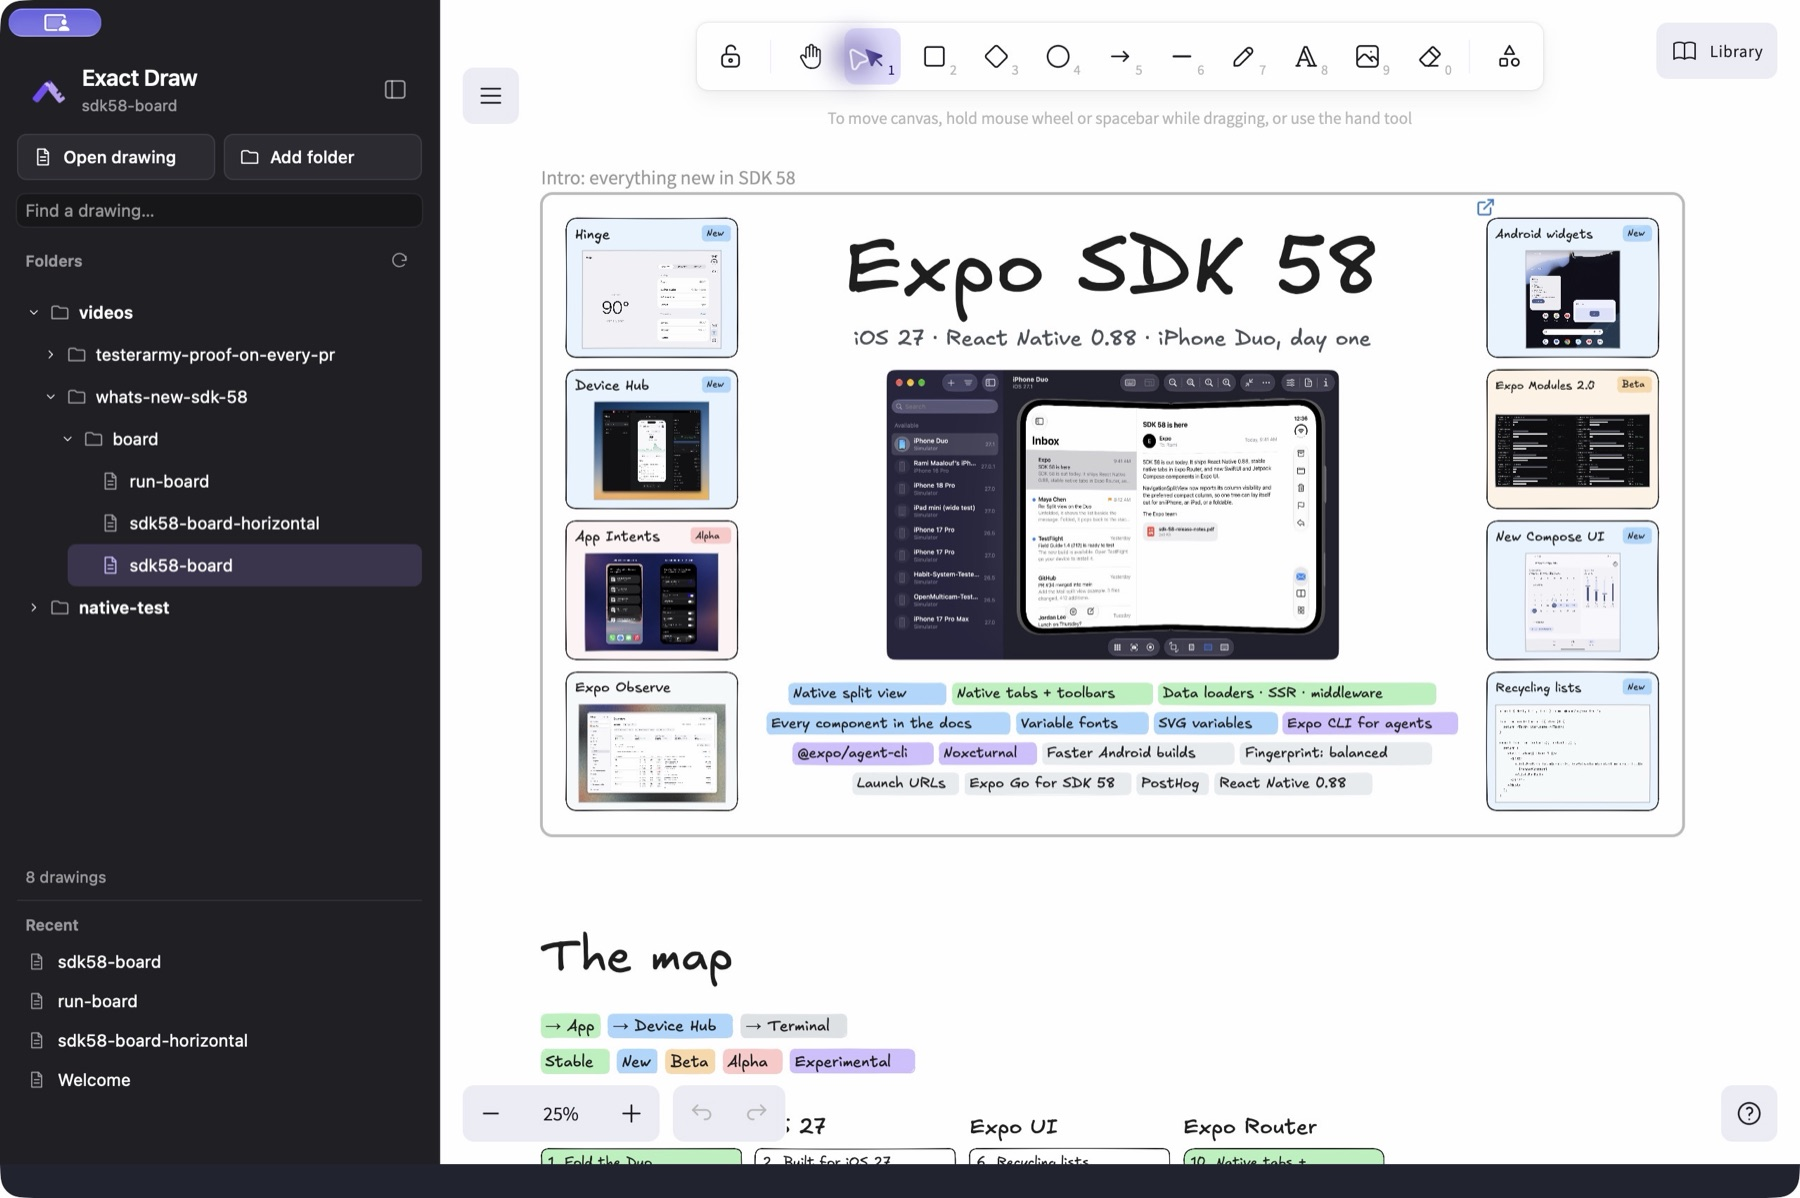
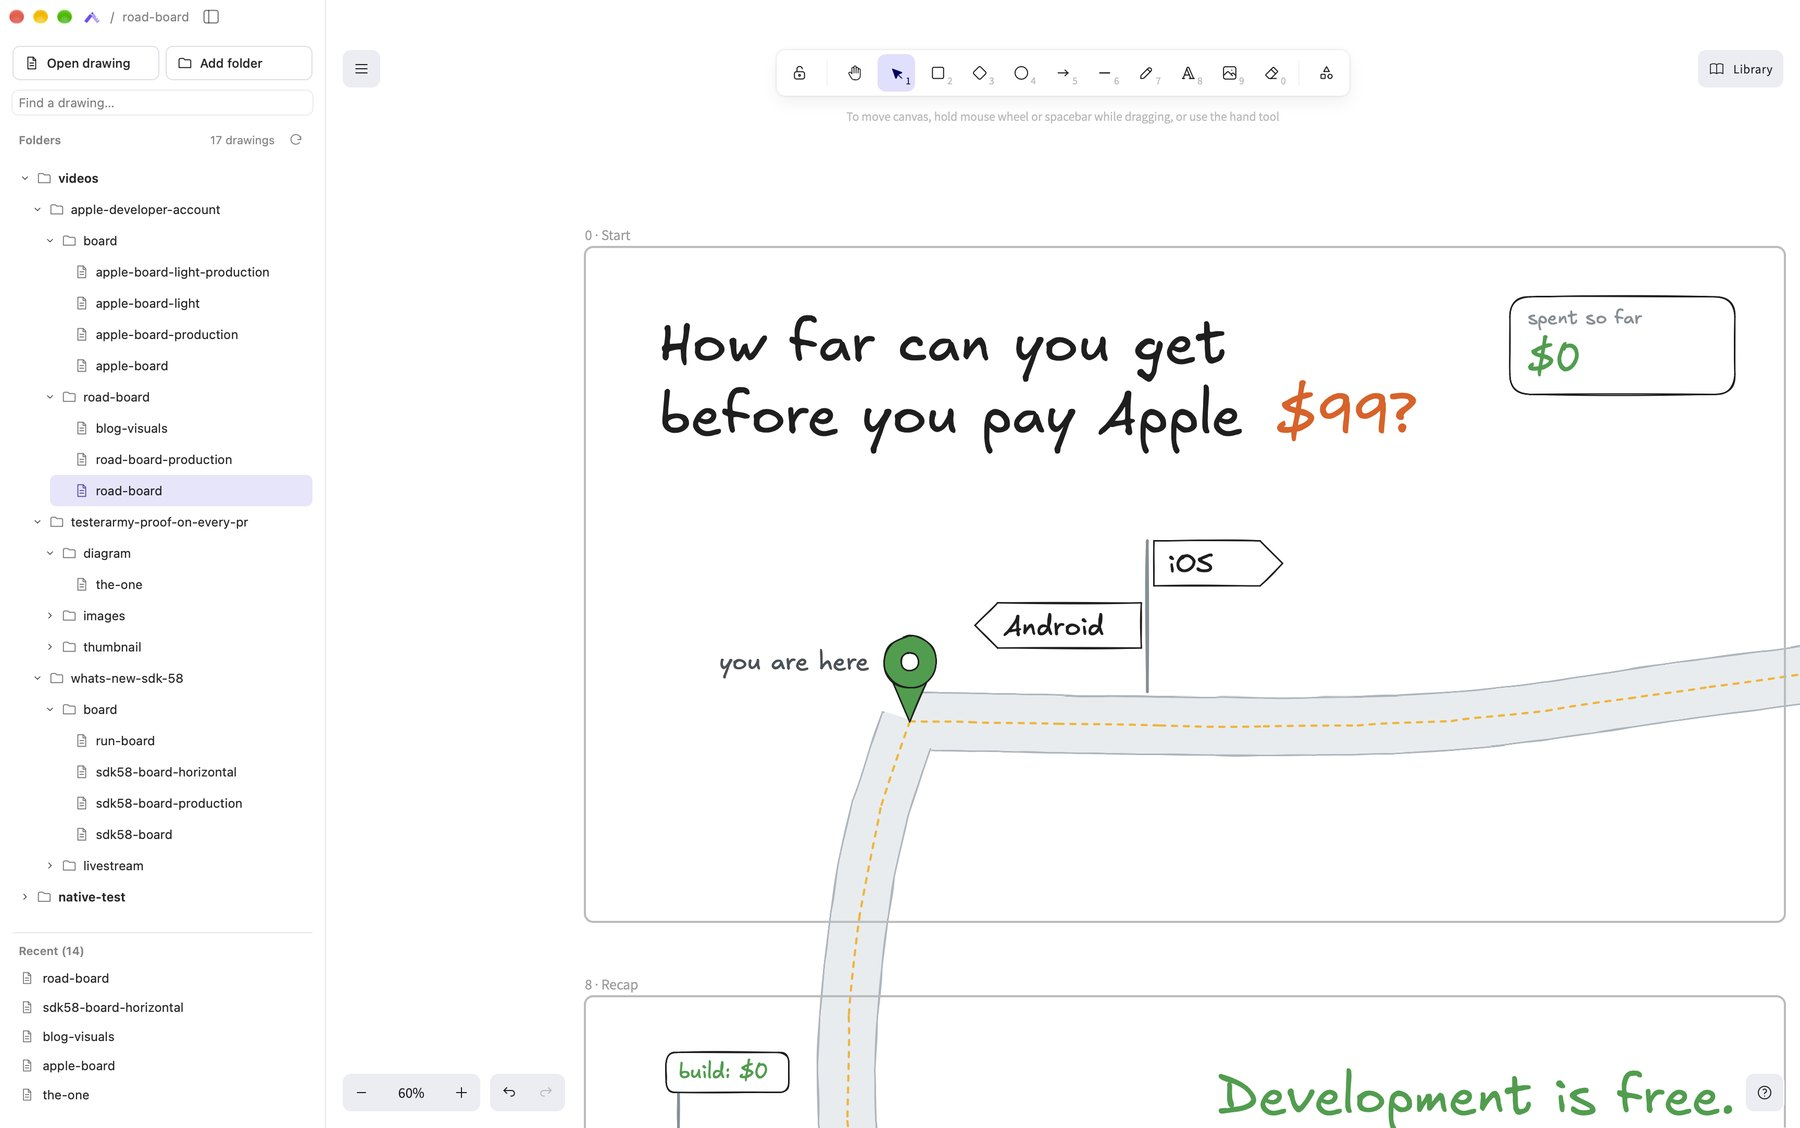
fix: replace the outdated app screenshot and link preview

diff --git a/website/src/index.html b/website/src/index.html
@@ -56,10 +56,10 @@
 
         <figure class="stage reveal" style="--d: 4">
           <div class="window" data-tilt>
-            <img src="./img/app.jpg" width="1800" height="1198" alt="Exact Draw on a Mac: a folder sidebar on the left, an Excalidraw drawing on the canvas." />
+            <img src="./img/app.jpg" width="1800" height="1128" alt="Exact Draw on a Mac: a folder sidebar on the left, an Excalidraw drawing on the canvas." />
           </div>
           <figcaption class="scribble" aria-hidden="true">
-            <span>your folders,<br />just as they are</span>
+            <span>your folders,<br />just as<br />they are</span>
             <svg viewBox="0 0 120 90"><path d="M112 8c-30 4-62 20-78 48-4 7-7 14-9 22" /><path d="M14 66l11 14 9-16" /></svg>
           </figcaption>
         </figure>

diff --git a/website/src/styles.css b/website/src/styles.css
@@ -307,7 +307,7 @@ h1 .ext {
 .scribble {
   position: absolute;
   top: 18%;
-  left: -9.5rem;
+  left: -11.5rem;
   display: flex;
   flex-direction: column;
   align-items: flex-end;
@@ -323,7 +323,7 @@ h1 .ext {
 .scribble svg {
   width: 6.5rem;
   height: auto;
-  margin: 0.3rem -0.5rem 0 0;
+  margin: 0.3rem -2.5rem 0 0;
   fill: none;
   stroke: var(--lilac);
   stroke-width: 2.4;
@@ -674,7 +674,7 @@ h2 {
   }
 }
 
-@media (max-width: 1240px) {
+@media (max-width: 1300px) {
   .scribble {
     display: none;
   }

diff --git a/website/README.md b/website/README.md
@@ -12,7 +12,7 @@ Vercel function for the waitlist.
 | `src/styles.css` | The look: near-black with a violet cast, the brand's pencil violet, Virgil for the one hand-drawn note. |
 | `src/main.js` | Entrances, the window tilt, the word-by-word statement, and the waitlist (`/?join` opens it). |
 | `api/waitlist.ts` | Saves the email to the shared Notion waitlist (`App: exact-draw`, `Platform: macOS`). Needs `NOTION_API_KEY` and `NOTION_WAITLIST_DATASOURCE_ID` on the Vercel project. |
-| `src/img/` | `app.jpg` (from `docs/screenshots/sidebar-open.jpg`, 1800 px wide), the mark, icons, and `share.jpg` (a 1200x630 capture of the hero). |
+| `src/img/` | `app.jpg` (a capture of the installed app with the road-board drawing, 1800 px wide), the mark, icons, and `share.jpg` (a 1200x630 capture of the hero). |
 | `src/public/fonts/` | Sora, Geist, Geist Mono, and Virgil from `@excalidraw/excalidraw` (all SIL OFL). |
 
 ```sh
